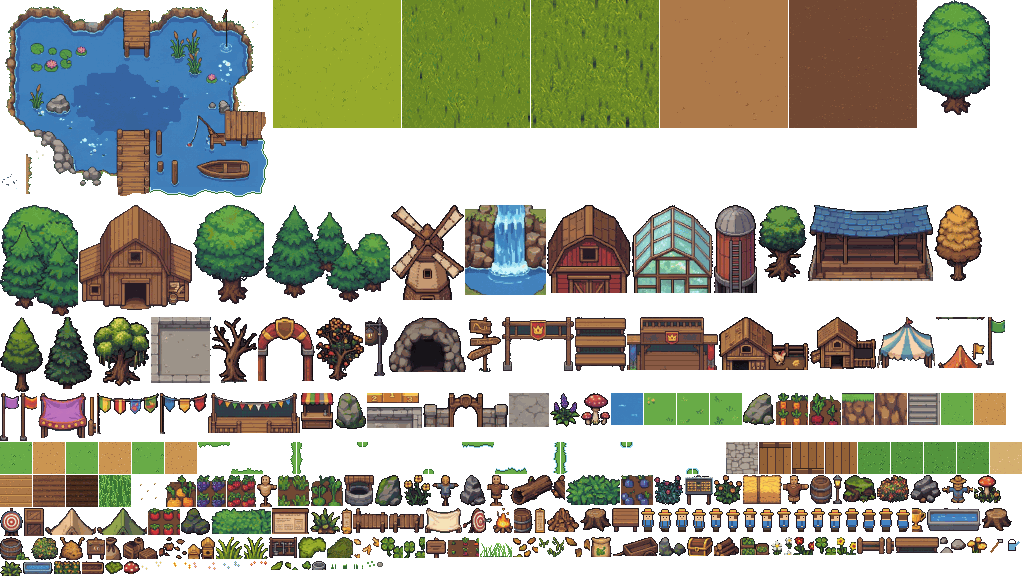
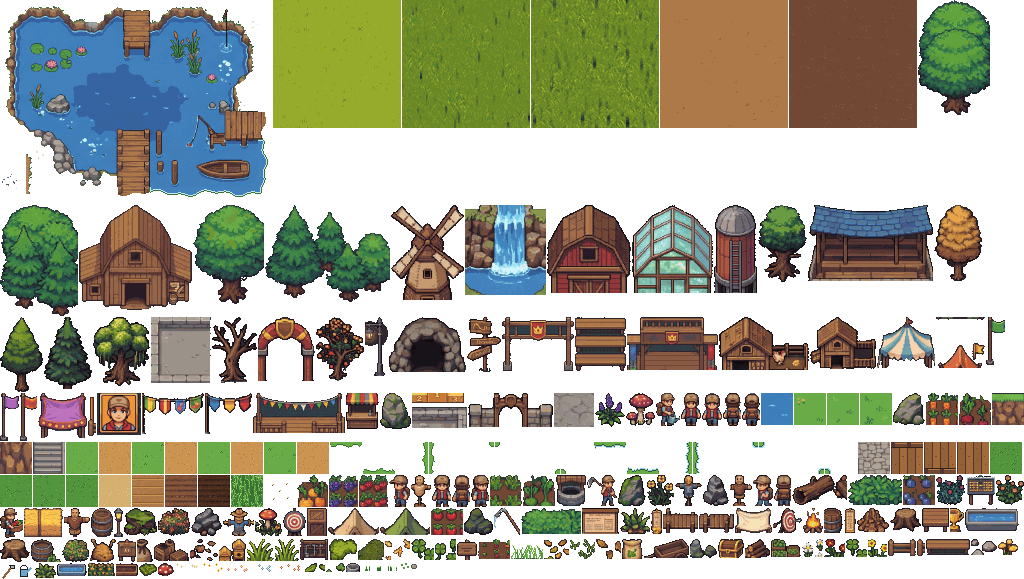
Thay nhân vật chính bằng asset nhân vật nam (sheet 5)
- Đi 4 hướng (trước, sau, 2 bên; bên phải là lật hình bên trái), đứng im,
  nhún 1px khi đi
- Động tác khi dùng công cụ: cuốc đất, tưới nước, thu hoạch (0,35 giây)
- Ảnh đại diện nhân vật ở góc HUD, icon cuốc trên thanh công cụ lấy từ asset
- Tách nền ô xám của sheet nhân vật, lọc vụn viền khung; bỏ nhân vật vẽ tay

Claude-Session: https://claude.ai/code/session_01BbaPnx3cHQqz9kHRAFFL9w

Changed region(s): [[0.0, 0.1562, 1.0, 1.0], [0.9062, 0.5312, 0.9688, 0.5625], [0.5625, 0.3438, 0.5938, 0.375]]

diff --git a/client/src/player.ts b/client/src/player.ts
@@ -1,6 +1,15 @@
 import type { World } from './world.ts';
 
-const DIRS = ['down', 'left', 'right', 'up'] as const;
+// Animation frames (atlas names). Side frames face left; right = flipped.
+const WALK: Record<number, string[]> = {
+  0: ['pl_d1', 'pl_d0', 'pl_d2', 'pl_d0'],
+  3: ['pl_u1', 'pl_u0', 'pl_u2', 'pl_u3'],
+  1: ['pl_l0', 'pl_l1', 'pl_l0', 'pl_l1'],
+  2: ['pl_l0', 'pl_l1', 'pl_l0', 'pl_l1'],
+};
+const IDLE: Record<number, [string, boolean]> = {
+  0: ['pl_d0', false], 3: ['pl_u0', false], 1: ['pl_r_idle', true], 2: ['pl_r_idle', false],
+};
 export type Dir = 0 | 1 | 2 | 3;
 
 // Feet collider (world px), relative to the feet point.
@@ -20,13 +29,25 @@ export class Player {
     this.x = x; this.y = y;
   }
 
-  get frame(): string {
-    const f = this.moving ? (Math.floor(this.anim * 8) % 4) : 0;
-    return `player_${DIRS[this.dir]}_${f}`;
+  /** short tool animation (hoe / water / harvest), faces right in the atlas */
+  action: { name: string; t: number } | null = null;
+
+  playAction(name: string) { this.action = { name, t: 0.35 }; }
+
+  /** sprite to draw + whether to mirror it */
+  get frame(): [string, boolean] {
+    if (this.action) return [this.action.name, this.dir === 1];
+    if (!this.moving) return IDLE[this.dir];
+    const f = WALK[this.dir][Math.floor(this.anim * 7) % 4];
+    return [f, this.dir === 2];
   }
+
+  /** 1px bob while walking makes the 2-frame cycle feel livelier */
+  get bob(): number { return this.moving && !this.action && Math.floor(this.anim * 7) % 2 ? 1 : 0; }
 
   /** ix, iy: input vector (-1..1). */
   update(dt: number, ix: number, iy: number, world: World) {
+    if (this.action && (this.action.t -= dt) <= 0) this.action = null;
     if (ix || iy) this.target = null;
     else if (this.target) {
       const dx = this.target.x - this.x, dy = this.target.y - this.y;

diff --git a/client/src/main.ts b/client/src/main.ts
@@ -44,12 +44,12 @@ function useTile(tx: number, ty: number) {
   const p: Plot | undefined = store.st.plots[key(tx, ty)];
   if (p && p.c && p.s >= RIPE) {
     const c = p.c;
-    if (store.act({ t: 'harvest', x: tx, y: ty })) ui.toast(`+1 ${CROPS[c].name}`, 900);
+    if (store.act({ t: 'harvest', x: tx, y: ty })) { ui.toast(`+1 ${CROPS[c].name}`, 900); player.playAction('pl_harvest'); }
     return;
   }
   const slot = ui.current;
-  if (slot.id === 'hoe') store.act({ t: 'till', x: tx, y: ty });
-  else if (slot.id === 'can') store.act({ t: 'water', x: tx, y: ty });
+  if (slot.id === 'hoe') { if (store.act({ t: 'till', x: tx, y: ty })) player.playAction('pl_hoe'); }
+  else if (slot.id === 'can') { if (store.act({ t: 'water', x: tx, y: ty })) player.playAction('pl_water'); }
   else if (slot.id.startsWith('seed:')) store.act({ t: 'plant', x: tx, y: ty, crop: slot.id.slice(5) });
   else if (p && p.c) ui.toast(`${CROPS[p.c].name}: chưa chín`, 900);
   else ui.toast('Chọn cuốc để xới đất, hạt giống để gieo', 1400);
@@ -195,14 +195,15 @@ function render(time: number) {
     push(o.name, o.x, o.y, o.flip);
   }
   const px = Math.round(player.x), py = Math.round(player.y);
-  push(player.frame, px, py, false);
+  const [pf, pflip] = player.frame;
+  push(pf, px, py - player.bob, pflip);
   list.sort(byY);
 
   for (const d of list) {
-    if (d.name.startsWith('player')) {
-      ctx.fillStyle = 'rgba(0,0,0,0.25)';
-      ctx.fillRect(d.x - 5, d.y - 2, 10, 3);
-      ctx.fillRect(d.x - 6, d.y - 1, 12, 1);
+    if (d.name.startsWith('pl_')) {
+      ctx.fillStyle = 'rgba(30,36,10,0.3)';
+      ctx.fillRect(d.x - 7, py - 2, 14, 3);
+      ctx.fillRect(d.x - 5, py + 1, 10, 1);
     }
     drawAnchored(ctx, atlas, d.name, d.x, d.y, d.flip);
   }

diff --git a/client/src/ui.ts b/client/src/ui.ts
@@ -23,6 +23,8 @@ export class UI {
 
   constructor(atlas: Atlas) {
     this.atlas = atlas;
+    const av = $('avatar');
+    av.replaceChildren(this.iconEl('portrait', 44));
     this.hotbar.addEventListener('pointerdown', (e) => {
       const el = (e.target as HTMLElement).closest('[data-i]') as HTMLElement | null;
       if (el) { this.select(+el.dataset.i!); e.preventDefault(); }
@@ -67,7 +69,7 @@ export class UI {
     const prevId = this.current?.id;
     this.sig = sig;
     this.slots = [
-      { id: 'hoe', icon: 'icon_hoe', label: 'Cuốc' },
+      { id: 'hoe', icon: 'tool_hoe', label: 'Cuốc' },
       { id: 'can', icon: 'icon_can', label: 'Bình tưới' },
       { id: 'hand', icon: 'veg_crates', label: 'Thu hoạch' },
       ...seeds.map((c) => ({ id: 'seed:' + c, icon: 'crop_' + c, label: 'Hạt ' + CROPS[c].name, count: st.inv['seed:' + c] })),

diff --git a/client/src/style.css b/client/src/style.css
@@ -30,7 +30,10 @@ html, body {
   background: rgba(29, 35, 48, .82); border: 2px solid var(--line); border-radius: 8px;
   padding: 4px 10px; font-weight: 700; white-space: nowrap;
 }
-#coins { color: var(--gold); }
+#coins { color: var(--gold); align-self: center; }
+#place { align-self: center; }
+#avatar { width: 48px; height: 46px; border: 2px solid #c27a2c; border-radius: 8px; overflow: hidden; background: #f0a33a; flex: 0 0 auto; }
+#avatar canvas { width: 44px; height: 42px; image-rendering: pixelated; display: block; }
 #net { margin-left: auto; font-size: 12px; color: var(--muted); font-weight: 600; }
 #net.on { color: var(--accent); }
 

diff --git a/client/index.html b/client/index.html
@@ -14,6 +14,7 @@
   <canvas id="game"></canvas>
   <div id="hud">
     <div id="top">
+      <div id="avatar"></div>
       <div class="pill" id="coins"></div>
       <div class="pill" id="place">Nông trại</div>
       <div class="pill" id="net" title="Trạng thái kết nối">…</div>

diff --git a/tools/build_assets.py b/tools/build_assets.py
@@ -21,7 +21,14 @@ sheets = {
     's2': Image.open(os.path.join(ROOT, 'assets/source/sheet2.png')).convert('RGB'),
     's3': Image.open(os.path.join(ROOT, 'assets/source/sheet3.png')).convert('RGB'),
     's4': Image.open(os.path.join(ROOT, 'assets/source/sheet4.png')).convert('RGB'),
+    's5': Image.open(os.path.join(ROOT, 'assets/source/sheet5.png')).convert('RGB'),
 }
+
+
+def is_cell_bg(p):
+    """Lighter slate cells behind the character frames (sheet 5)."""
+    r, g, b = p[:3]
+    return 98 <= r <= 124 and 107 <= g <= 133 and 124 <= b <= 152 and b - r > 18
 
 
 def is_bg(p):
@@ -47,18 +54,18 @@ def cut_object(sheet, box):
         if seen[i]:
             continue
         seen[i] = 1
-        if not is_bg(px[x, y]):
+        if not (is_bg(px[x, y]) or (sheet == 's5' and is_cell_bg(px[x, y]))):
             continue
         px[x, y] = (0, 0, 0, 0)
         if x > 0: q.append((x - 1, y))
         if x < w - 1: q.append((x + 1, y))
         if y > 0: q.append((x, y - 1))
         if y < h - 1: q.append((x, y + 1))
-    drop_border_fragments(im)
+    drop_border_fragments(im, keep_only_big=(sheet == 's5'))
     return im
 
 
-def drop_border_fragments(im):
+def drop_border_fragments(im, keep_only_big=False):
     """Remove small opaque islands touching the crop edge (bits of neighbouring
     sprites that leaked into the crop box)."""
     w, h = im.size
@@ -88,7 +95,7 @@ def drop_border_fragments(im):
         return
     biggest = max(len(p) for p, _ in comps)
     for pts, border in comps:
-        if len(pts) < biggest * 0.2 and (border or len(pts) < 40):
+        if len(pts) < biggest * 0.2 and (border or len(pts) < 40 or keep_only_big):
             for x, y in pts:
                 px[x, y] = (0, 0, 0, 0)
 
@@ -697,9 +704,8 @@ def main():
     images['tile_tallgrass'] = make_tall_grass_tile(600)
     images['tallgrass_top'] = tall_grass_top(601)
     images['seeds'] = make_seeds(images['tile_soil'])
-    for dname, di in (('down', 0), ('left', 1), ('right', 2), ('up', 3)):
-        for f in range(4):
-            images[f'player_{dname}_{f}'] = draw_player(di, f)
+    # HUD portrait (opaque, keeps its orange frame)
+    images['portrait'] = sheets['s5'].crop((2278, 138, 2552, 398)).convert('RGBA').resize((44, 42), Image.BOX)
     images.update(tool_icons())
 
     atlas, rects = pack(images)

diff --git a/tools/sprites.py b/tools/sprites.py
@@ -52,7 +52,7 @@ SPRITES = {
     'flowers_o':      ('s2', 1380, 1270, 1505, 1385, 'obj'),
     'flowers_lav':    ('s2', 1520, 1260, 1650, 1390, 'obj'),
     'flowers_y':      ('s2', 1660, 1260, 1785, 1385, 'obj'),
-    'fern':           ('s2', 985, 1405, 1085, 1495, 'obj'),
+    'fern':           ('s2', 978, 1405, 1085, 1495, 'obj'),
     'plant':          ('s2', 1105, 1395, 1225, 1505, 'obj'),
     'pebbles':        ('s2', 1400, 1405, 1505, 1505, 'obj'),
     'rock_s1':        ('s2', 1525, 1405, 1645, 1510, 'obj'),
@@ -176,4 +176,21 @@ SPRITES = {
     'd_tuft':         ('s4', 2217, 1366, 2312, 1462, 'obj'),
     'd_tuft2':        ('s4', 2342, 1366, 2442, 1462, 'obj'),
     'd_bush_moss':    ('s4', 2467, 1366, 2572, 1462, 'obj'),
+
+    # ---- main character (sheet 5). Walk/idle cells; 'pl_l*' face left.
+    'pl_d0':          ('s5', 40, 140, 160, 292, 'obj', 0.82),
+    'pl_d1':          ('s5', 717, 140, 834, 292, 'obj', 0.82),
+    'pl_d2':          ('s5', 717, 300, 834, 457, 'obj', 0.82),
+    'pl_u0':          ('s5', 175, 300, 305, 457, 'obj', 0.82),
+    'pl_u1':          ('s5', 849, 140, 978, 292, 'obj', 0.82),
+    'pl_u2':          ('s5', 849, 300, 978, 457, 'obj', 0.82),
+    'pl_u3':          ('s5', 849, 641, 978, 790, 'obj', 0.82),
+    'pl_l0':          ('s5', 717, 465, 834, 627, 'obj', 0.82),
+    'pl_l1':          ('s5', 717, 641, 834, 790, 'obj', 0.82),
+    'pl_r_idle':      ('s5', 320, 140, 460, 292, 'obj', 0.82),
+    # farming actions (drawn bigger on the sheet, so scaled down to match); face right
+    'pl_hoe':         ('s5', 280, 978, 535, 1208, 'obj', 0.52),
+    'pl_water':       ('s5', 1055, 975, 1245, 1208, 'obj', 0.57),
+    'pl_harvest':     ('s5', 1045, 1262, 1245, 1502, 'obj', 0.5),
+    'tool_hoe':       ('s5', 40, 980, 240, 1172, 'obj', 0.6),
 }
